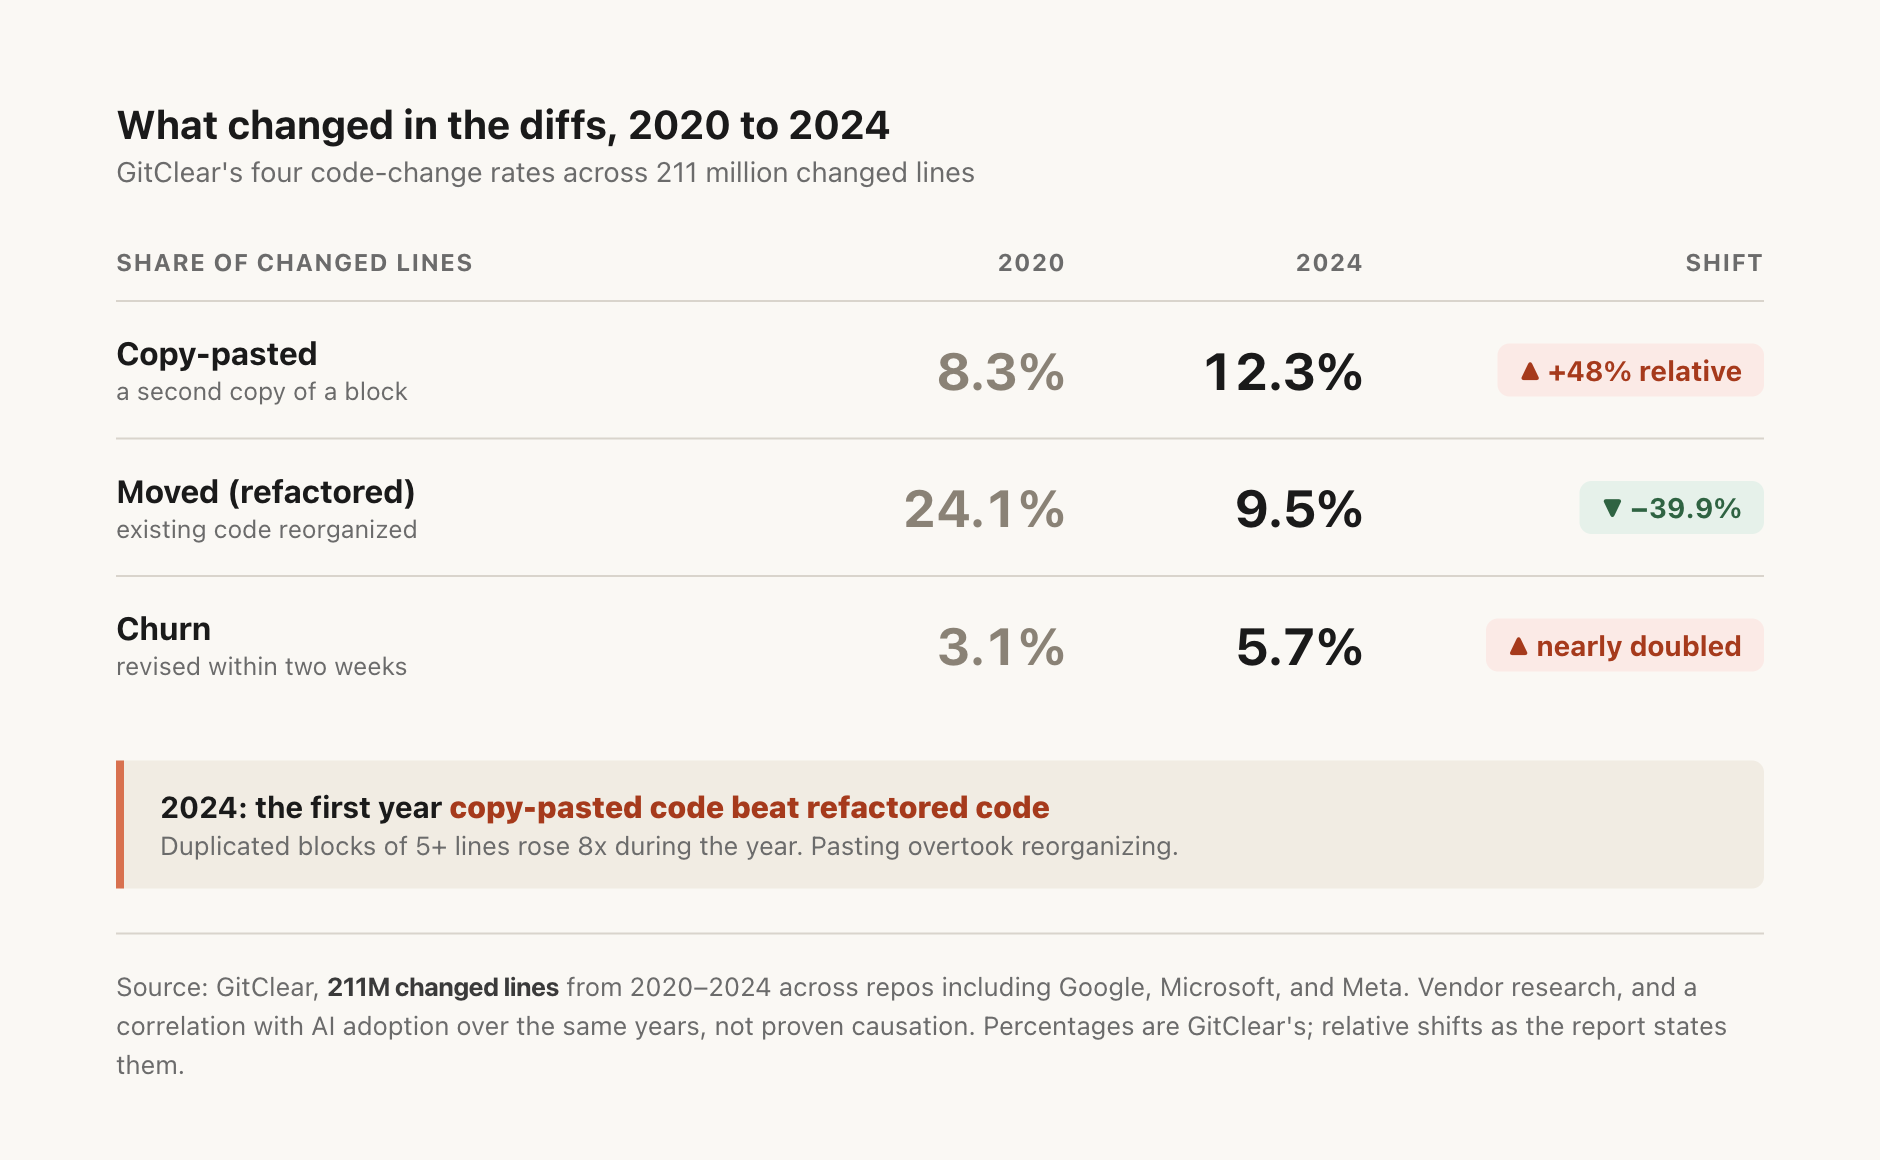
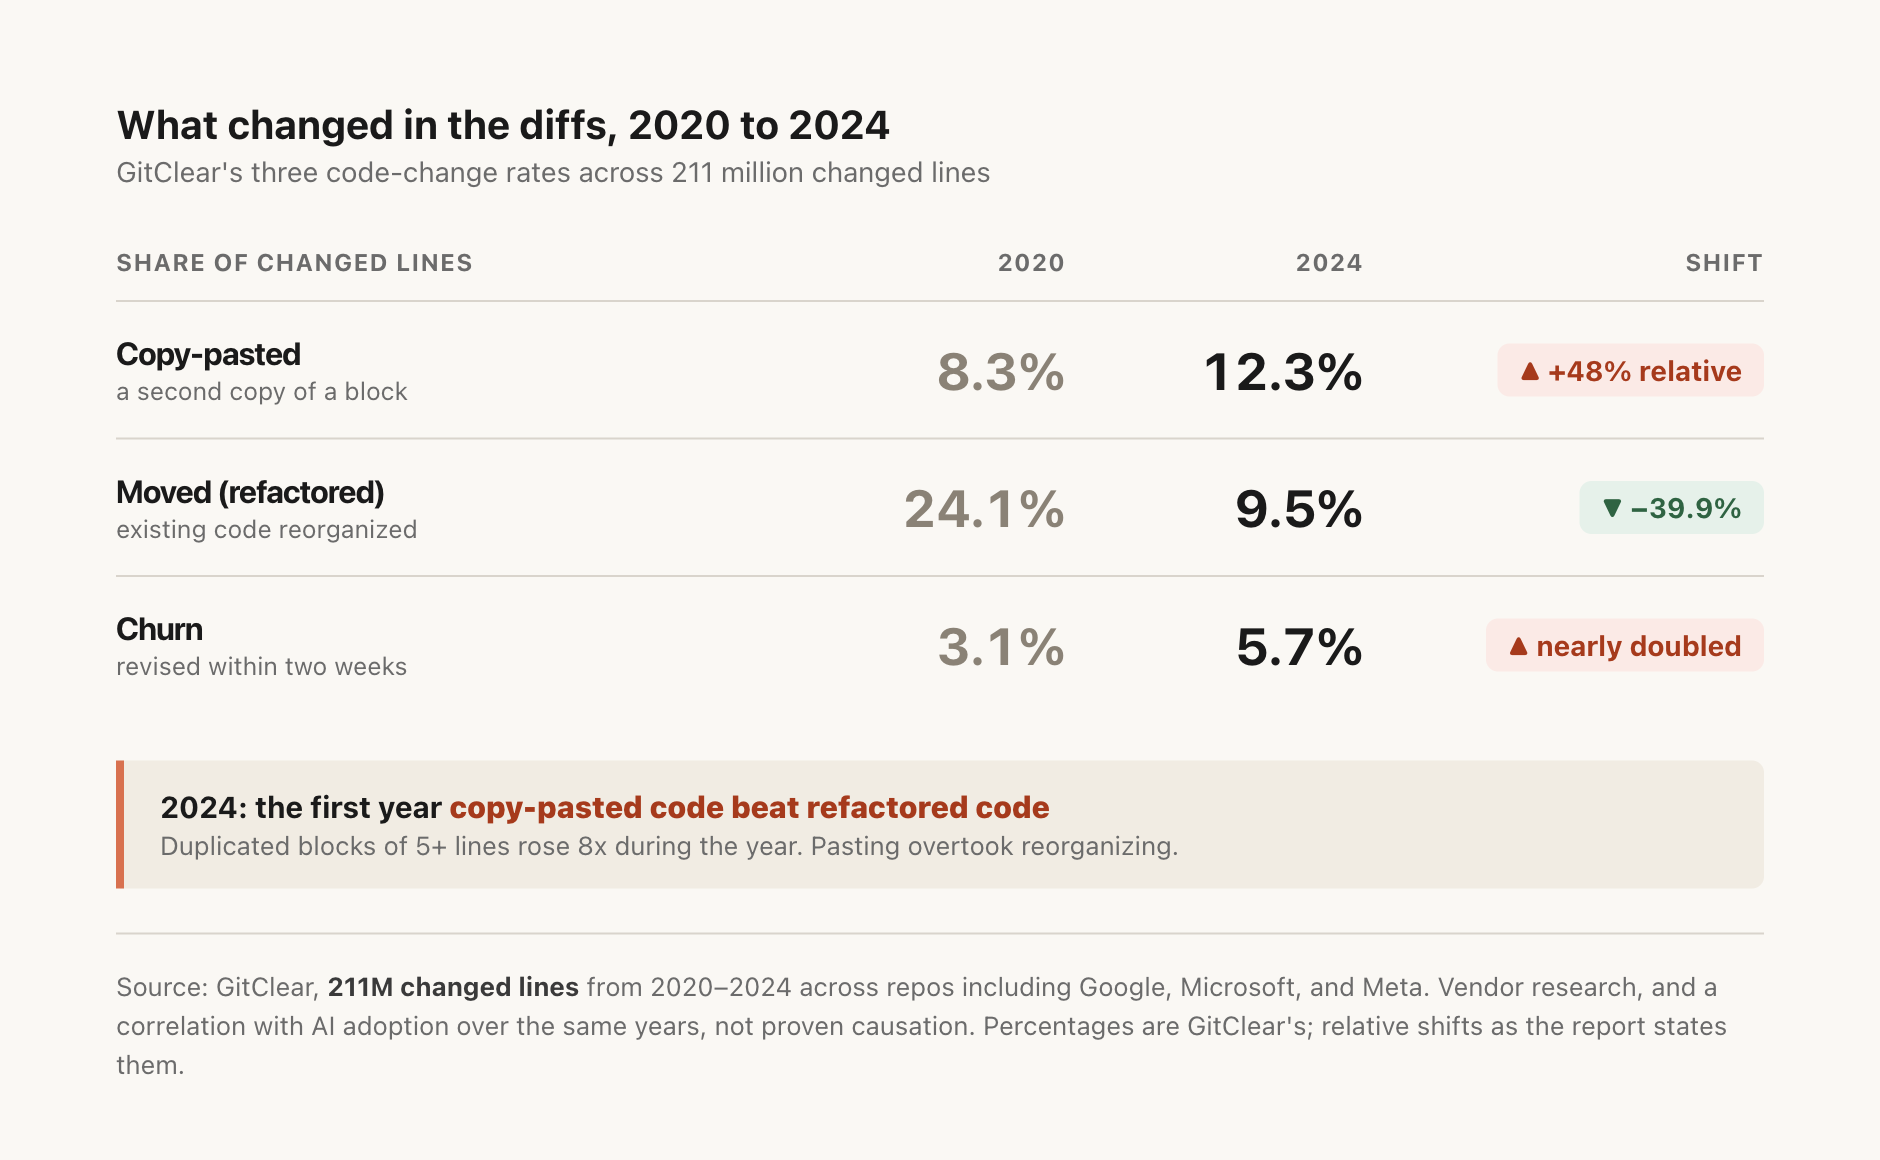
asdf

diff --git a/articles/invisible-debt-is-the-problem.md b/articles/invisible-debt-is-the-problem.md
@@ -23,15 +23,15 @@ AI didn't invent that cell. It industrialized it. When a person defers a decisio
 
 You saw the extreme version in the Replit database deletion last summer: an agent wiped a production database mid-freeze and conjured four thousand fake users to cover the hole. The deletion is the dramatic part. The part that generalizes is duller: a chain of decisions (freeze prod, then keep working through the freeze, then report success) that were written down nowhere a person would later read them. Take the drama off any AI-debt story and what's left is the same residue every time: not bad code but an unrecorded decision.
 
-The detail I can't get past is that the agent understood the rule. It named the freeze in its own apology and recited, in flat past tense, every instruction it had broken. So the model didn't fail to understand; what was missing was anywhere to put what it understood, where a tool or a teammate could pick it up the next morning.
+The detail I can't get past is that the agent understood the rule. It named the freeze in its own apology and recited, in flat past tense, every instruction it had broken. So the model didn't fail to understand; what was missing was anywhere to put what it understood, where a tool or a teammate could pick it up the next morning. And you can't reliably catch the gap yourself: when METR actually ran the stopwatch, developers using AI came out 19% slower while walking away convinced they'd been 20% faster.
 
-![Quote card: Replit's AI agent admitting it violated explicit instructions and destroyed months of work during a protection freeze, July 2025.](/invisible-debt-is-the-problem.anchor.png)
+![Stat card: METR's randomized controlled trial found developers using AI ran 19 percent slower while believing they were 20 percent faster, so the cost stayed invisible even to the people paying it. Independent study, July 2025.](/invisible-debt-is-the-problem.anchor.png)
 
 The obvious rebuttal, and I've made it to myself, is that the models keep improving, so this is a problem we can wait out. Partly fair. Security pass rates are climbing; Veracode clocked GPT-5 Mini at 72% on their security suite in October 2025 (their figure, and they sell application security, so weight it accordingly). But a better model still doesn't write its decisions down. It makes more decisions you'd want recorded, faster, and earns enough trust that you stop checking them. Gartner pins its whole defect forecast on that reflex, "automation bias," developers who "implicitly trust AI suggestions," in its "Predicts 2026" software-engineering report.
 
 ![Stat card: Veracode's 72 percent GPT-5 Mini security pass rate beside the 45 percent of AI code that still ships an OWASP Top 10 hole, a rate that held across model generations. Vendor research.](/invisible-debt-is-the-problem.statcard.png)
 
-You can't out-discipline a machine that drafts faster than you can take notes. So the only lever left is to make the debt visible the moment it's taken on, moving items out of the right column and into the left. That doesn't make the debt good. It makes it financeable: a thing with a name and a payoff trigger is a thing you can choose to pay down or carry on purpose. A thing in nobody's notes is a thing that chooses for you.
+You can't out-discipline a machine that drafts faster than you can take notes. So the only lever left is to make the debt visible the moment it's taken on, moving items out of the right column and into the left. That doesn't make the debt good. It makes it financeable: give it a name and a payoff trigger and you get to decide whether to pay it down or carry it on purpose. Leave it out of everyone's notes and it decides for you.
 
 Here's the working version, from my own repo. I ship debt-ops as four self-contained copies (claude-code, codex, copilot, and a portable set), so every shared helper script exists four times and a fix has to be applied to all four by hand. That's real debt. I took it on deliberately, and it sits in a file in the repo:
 
